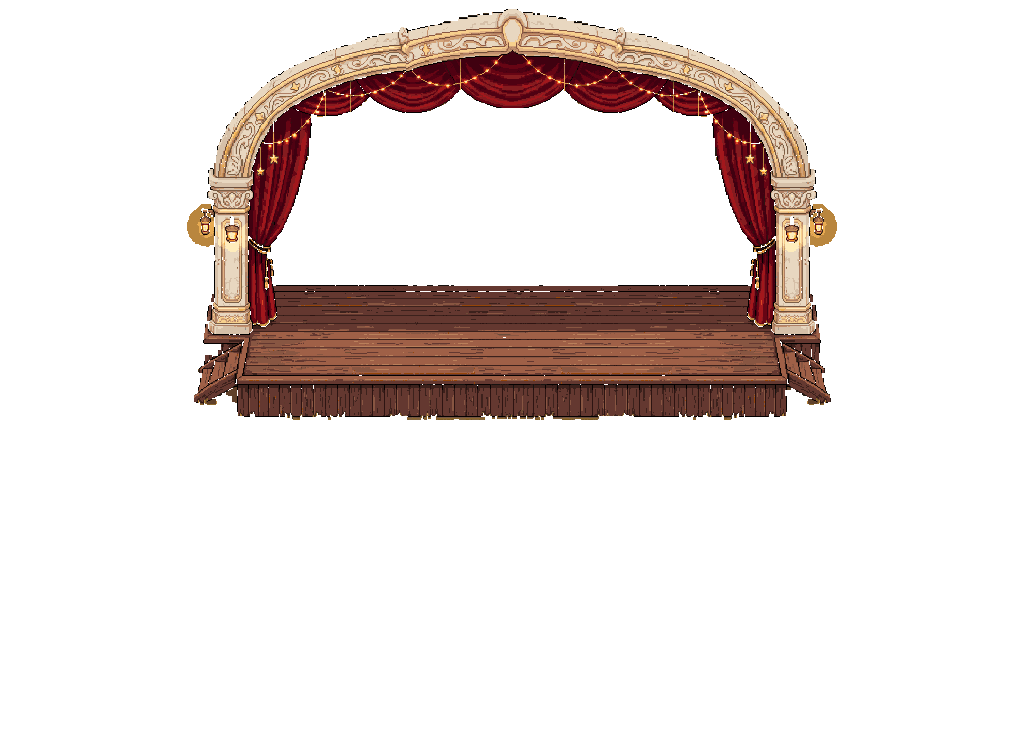
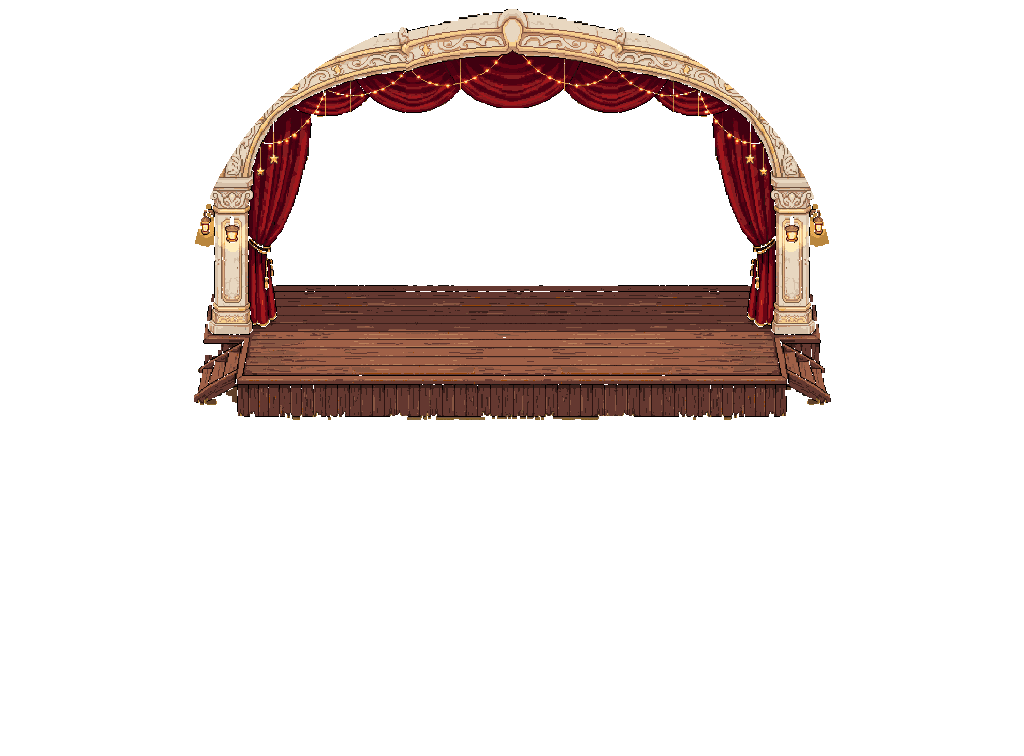
광장 시안 4: 객석 잘린 조각·이음 정리, 가로등 옮김, 풀 결 이음 없이, 경사로 무대에 이어 문턱의 별 이후만
Claude-Session: https://claude.ai/code/session_01Pvw1b89peiWr9LLckhAsvR

diff --git a/preview-plaza/index.html b/preview-plaza/index.html
@@ -24,7 +24,7 @@ html,body{margin:0;height:100%;background:#15120e;overflow:hidden;touch-action:n
 #burst{position:fixed;inset:0;pointer-events:none;z-index:8;opacity:0;transition:opacity .5s}
 </style></head><body>
 <div id="view"><div id="world" class="ink"></div></div><div id="tint"></div><canvas id="burst"></canvas>
-<div id="bar"><button id="bStar">별 찾기 (색 되찾기)</button><button id="bWalk">걷는 길 보기</button><button id="bZoom">가까이 보기</button></div>
+<div id="bar"><button id="bStar">별 찾기 (색 되찾기)</button><button id="bWalk">걷는 길 보기</button><button id="bZoom">가까이 보기</button><button id="bRamp">문턱의 별 이후 보기</button></div>
 <div id="tip">광장 시안: 화면을 누르거나 방향키로 걸어 보세요 (바깥 풀밭은 임시)</div>
 <script>
 (() => {
@@ -171,6 +171,9 @@ function start() {
 }
 for (const b of document.querySelectorAll('#bar button')) b.addEventListener('pointerdown', e => e.stopPropagation());
 const bWalk = document.getElementById('bWalk'), bStar = document.getElementById('bStar'), bZoom = document.getElementById('bZoom');
+const bRamp = document.getElementById('bRamp'); let rampOn = false;
+const setRamp = () => { for (const i of world.querySelectorAll('img')) if (i.src.includes('o_ramp')) i.style.display = rampOn ? '' : 'none'; bRamp.textContent = rampOn ? '문턱의 별 이전 보기' : '문턱의 별 이후 보기'; bRamp.classList.toggle('on', rampOn); };
+bRamp.onclick = () => { rampOn = !rampOn; setRamp(); }; setTimeout(setRamp, 1500); setTimeout(setRamp, 4000);   // 경사로는 문턱의 별을 올린 뒤에 생김
 bZoom.onclick = () => { near = 1 - near; fit(); bZoom.textContent = near ? '멀리 보기' : '가까이 보기'; };
 bWalk.onclick = () => { bWalk.classList.toggle('on'); walk.style.display = bWalk.classList.contains('on') ? '' : 'none'; };
 // 별 찾기: 주인공 자리에서 빛이 퍼지며 색과 밝기를 되찾음. 다시 누르면 먹색으로
